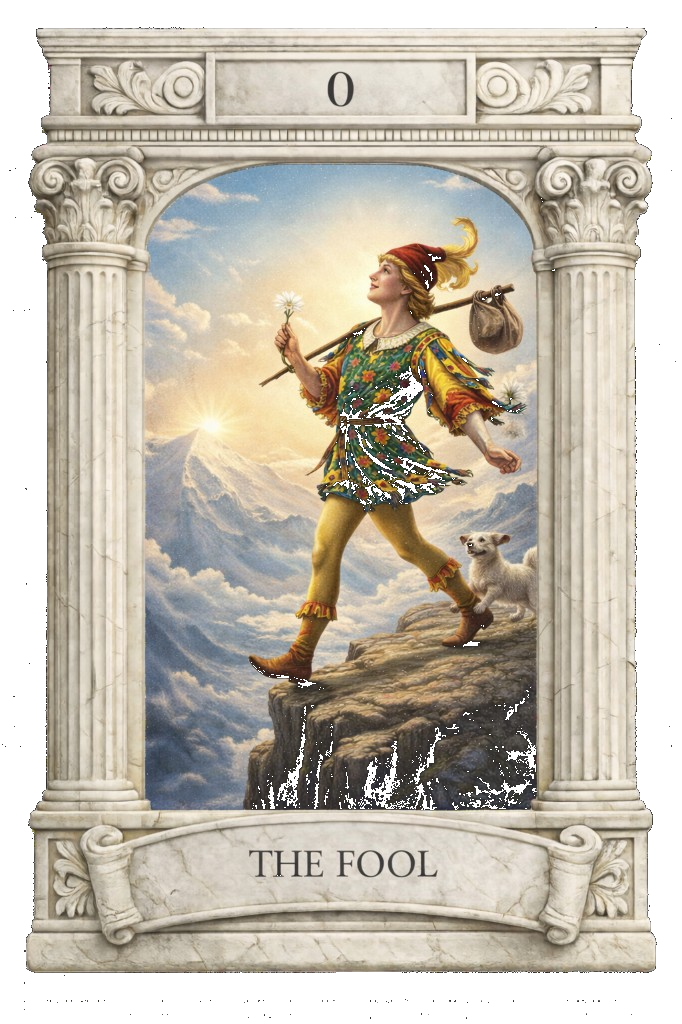
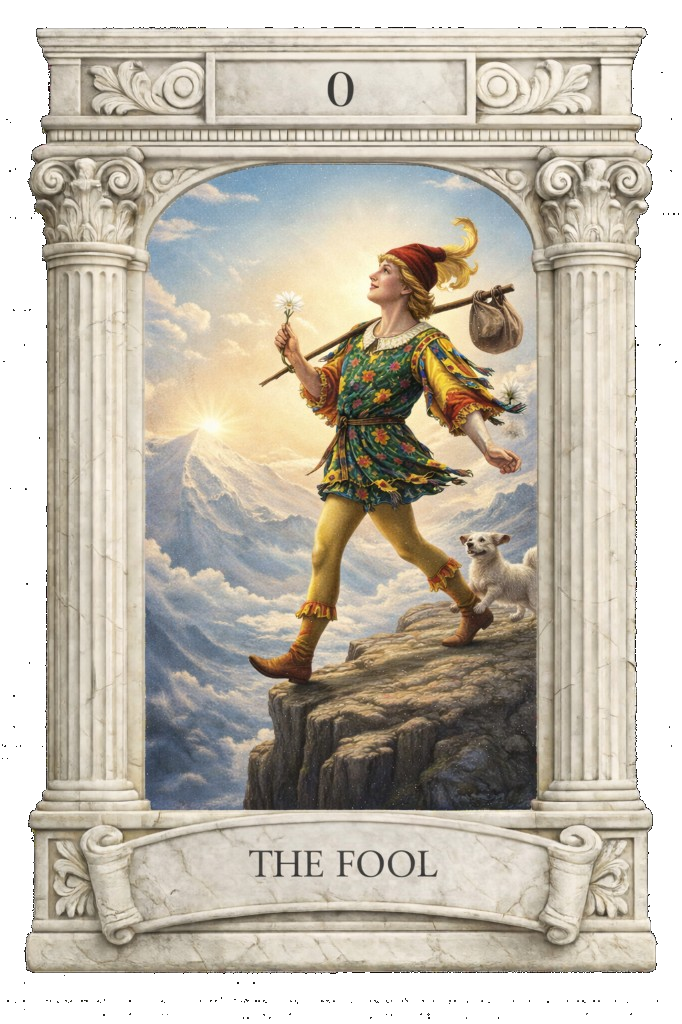
Fix Marble Temple previews: remove only outer black, preserve artwork inside frame
Made-with: Cursor

diff --git a/scripts/marble-temple-black-to-transparent.py b/scripts/marble-temple-black-to-transparent.py
@@ -1,9 +1,11 @@
 #!/usr/bin/env python3
 """
-Make black/near-black background transparent in Marble Temple tarot card PNGs.
-Output: true PNG alpha transparency (no checkerboard/grey). 300 DPI when saving.
+Remove ONLY the black background outside the marble frame. Uses flood-fill from
+the image edges so dark areas inside the artwork (stormy sky, robes, shadows)
+are never touched. Export PNG with real alpha transparency.
 """
 from pathlib import Path
+from collections import deque
 
 try:
     from PIL import Image
@@ -11,25 +13,58 @@ except ImportError:
     print("Install Pillow: pip install Pillow")
     raise SystemExit(1)
 
-# Pixels with R,G,B all <= this are made fully transparent (alpha=0)
-BLACK_THRESHOLD = 45
+# Only pixels with R,G,B all <= this are considered "outer background" to remove.
+# Keep strict (15-20) so dark greys/blues inside the artwork are never touched.
+BLACK_THRESHOLD = 18
 DPI = 300
 
 
-def make_black_transparent(path_in: Path, path_out: Path) -> None:
+def is_black(pixels: object, x: int, y: int, w: int, h: int) -> bool:
+    if not (0 <= x < w and 0 <= y < h):
+        return False
+    r, g, b, a = pixels[x, y]
+    return r <= BLACK_THRESHOLD and g <= BLACK_THRESHOLD and b <= BLACK_THRESHOLD
+
+
+def make_only_outer_black_transparent(path_in: Path, path_out: Path) -> None:
     img = Image.open(path_in).convert("RGBA")
     w, h = img.size
     pixels = img.load()
-    count = 0
+
+    # Flood-fill from all edge pixels: only make transparent pixels that are
+    # (1) very black and (2) connected to the image edge via other very black pixels.
+    to_make_transparent = set()
+    queue = deque()
+
+    def enqueue(x: int, y: int) -> None:
+        if (x, y) in to_make_transparent or not is_black(pixels, x, y, w, h):
+            return
+        to_make_transparent.add((x, y))
+        queue.append((x, y))
+
+    # Seed: all black pixels on the four edges
+    for x in range(w):
+        enqueue(x, 0)
+        enqueue(x, h - 1)
     for y in range(h):
-        for x in range(w):
-            r, g, b, a = pixels[x, y]
-            if r <= BLACK_THRESHOLD and g <= BLACK_THRESHOLD and b <= BLACK_THRESHOLD:
-                pixels[x, y] = (r, g, b, 0)
-                count += 1
-    # Save as PNG with transparency; set DPI metadata (does not resample pixels)
+        enqueue(0, y)
+        enqueue(w - 1, y)
+
+    while queue:
+        x, y = queue.popleft()
+        for dx, dy in ((-1, 0), (1, 0), (0, -1), (0, 1)):
+            nx, ny = x + dx, y + dy
+            if (nx, ny) not in to_make_transparent and is_black(pixels, nx, ny, w, h):
+                to_make_transparent.add((nx, ny))
+                queue.append((nx, ny))
+
+    # Apply transparency only to those pixels; leave everything else untouched
+    for (x, y) in to_make_transparent:
+        r, g, b, a = pixels[x, y]
+        pixels[x, y] = (r, g, b, 0)
+
     img.save(path_out, "PNG", dpi=(DPI, DPI))
-    print(f"  {path_in.name} -> {path_out.name} (made {count} pixels transparent)")
+    print(f"  {path_in.name} -> {path_out.name} (made {len(to_make_transparent)} edge-connected black pixels transparent)")
 
 
 def main() -> None:
@@ -44,7 +79,6 @@ def main() -> None:
     out_dir = root / "public" / "images" / "examples"
     out_dir.mkdir(parents=True, exist_ok=True)
 
-    # Map output filename -> substring to find in assets
     outputs = [
         ("marble-temple-example-1.png", "marble-temple-the-fool"),
         ("marble-temple-example-2.png", "marble-temple-high-priestess"),
@@ -56,9 +90,10 @@ def main() -> None:
         if not candidates:
             print(f"  No file containing '{sub}' in {assets}")
             continue
-        path_in = candidates[0]
+        # Prefer the most recently modified (user may have re-uploaded)
+        path_in = max(candidates, key=lambda p: p.stat().st_mtime)
         path_out = out_dir / out_name
-        make_black_transparent(path_in, path_out)
+        make_only_outer_black_transparent(path_in, path_out)
 
     print("Done.")
 
